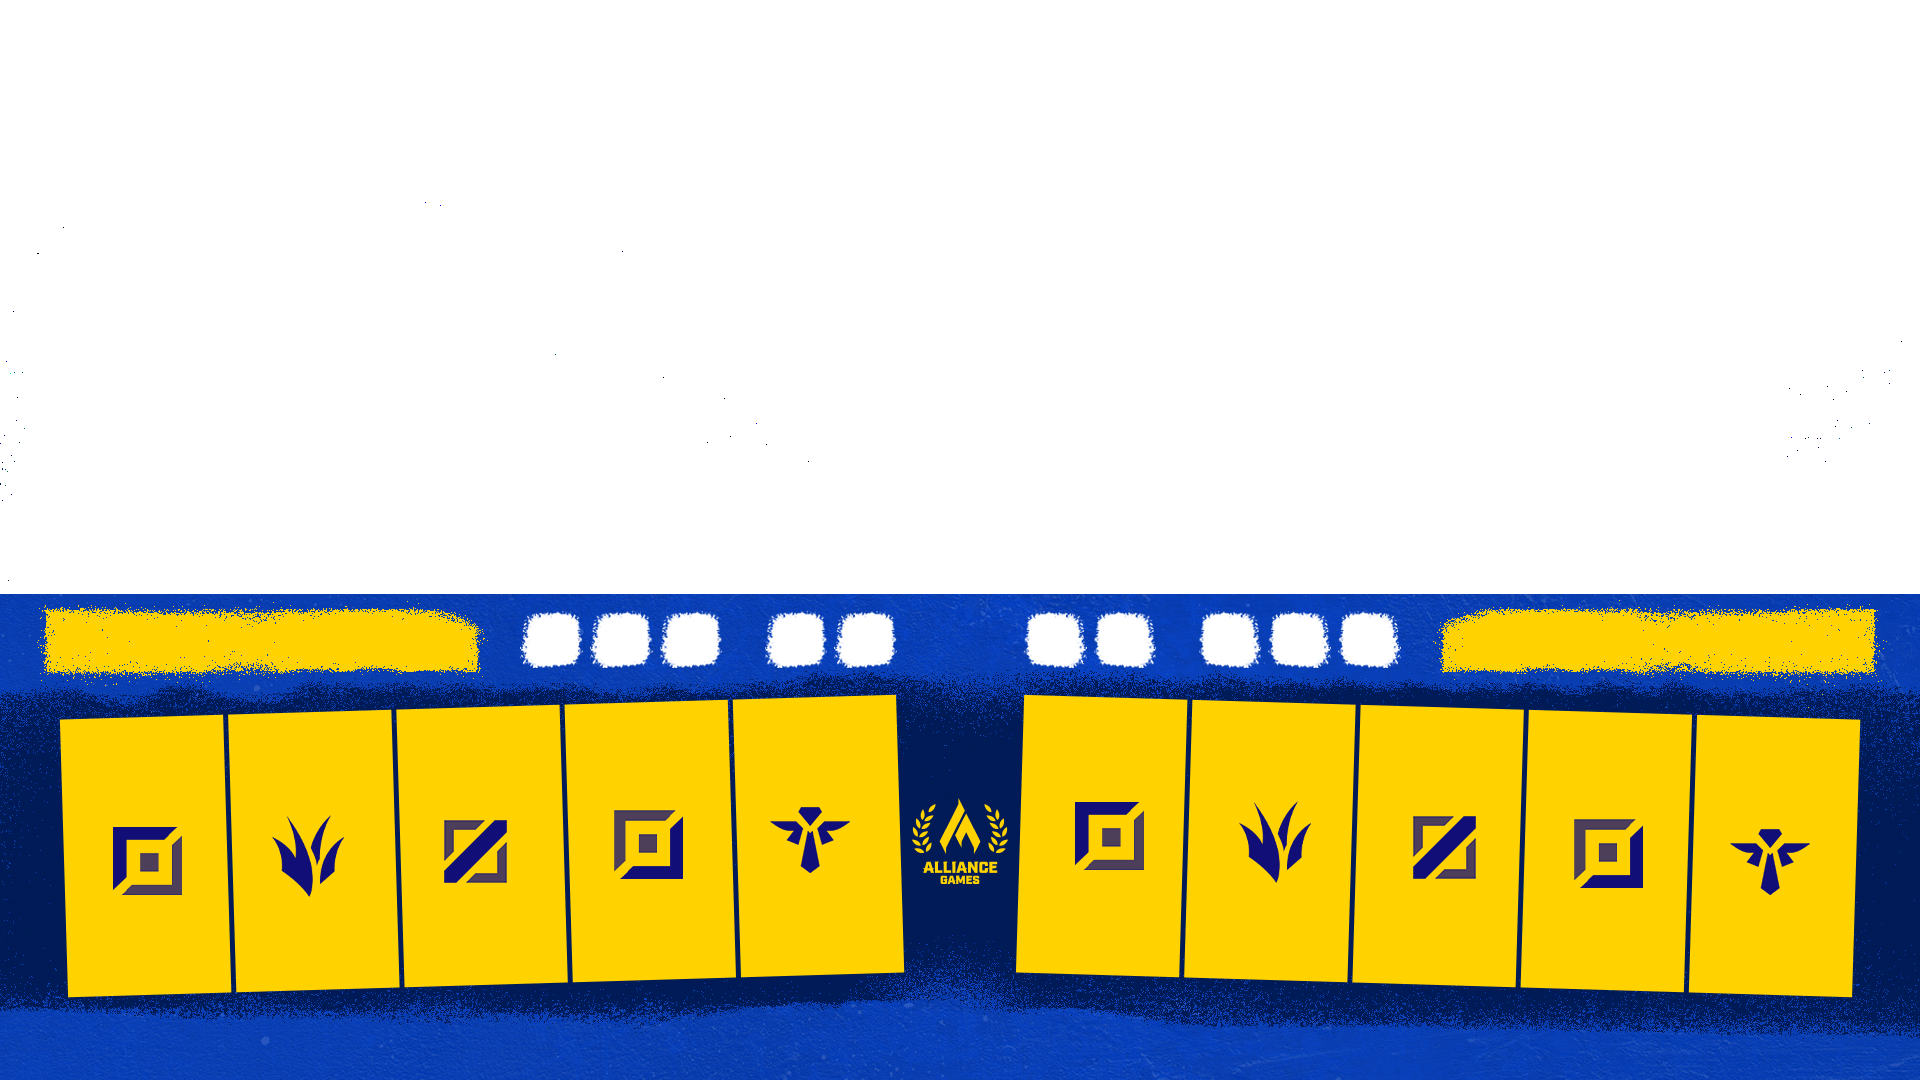
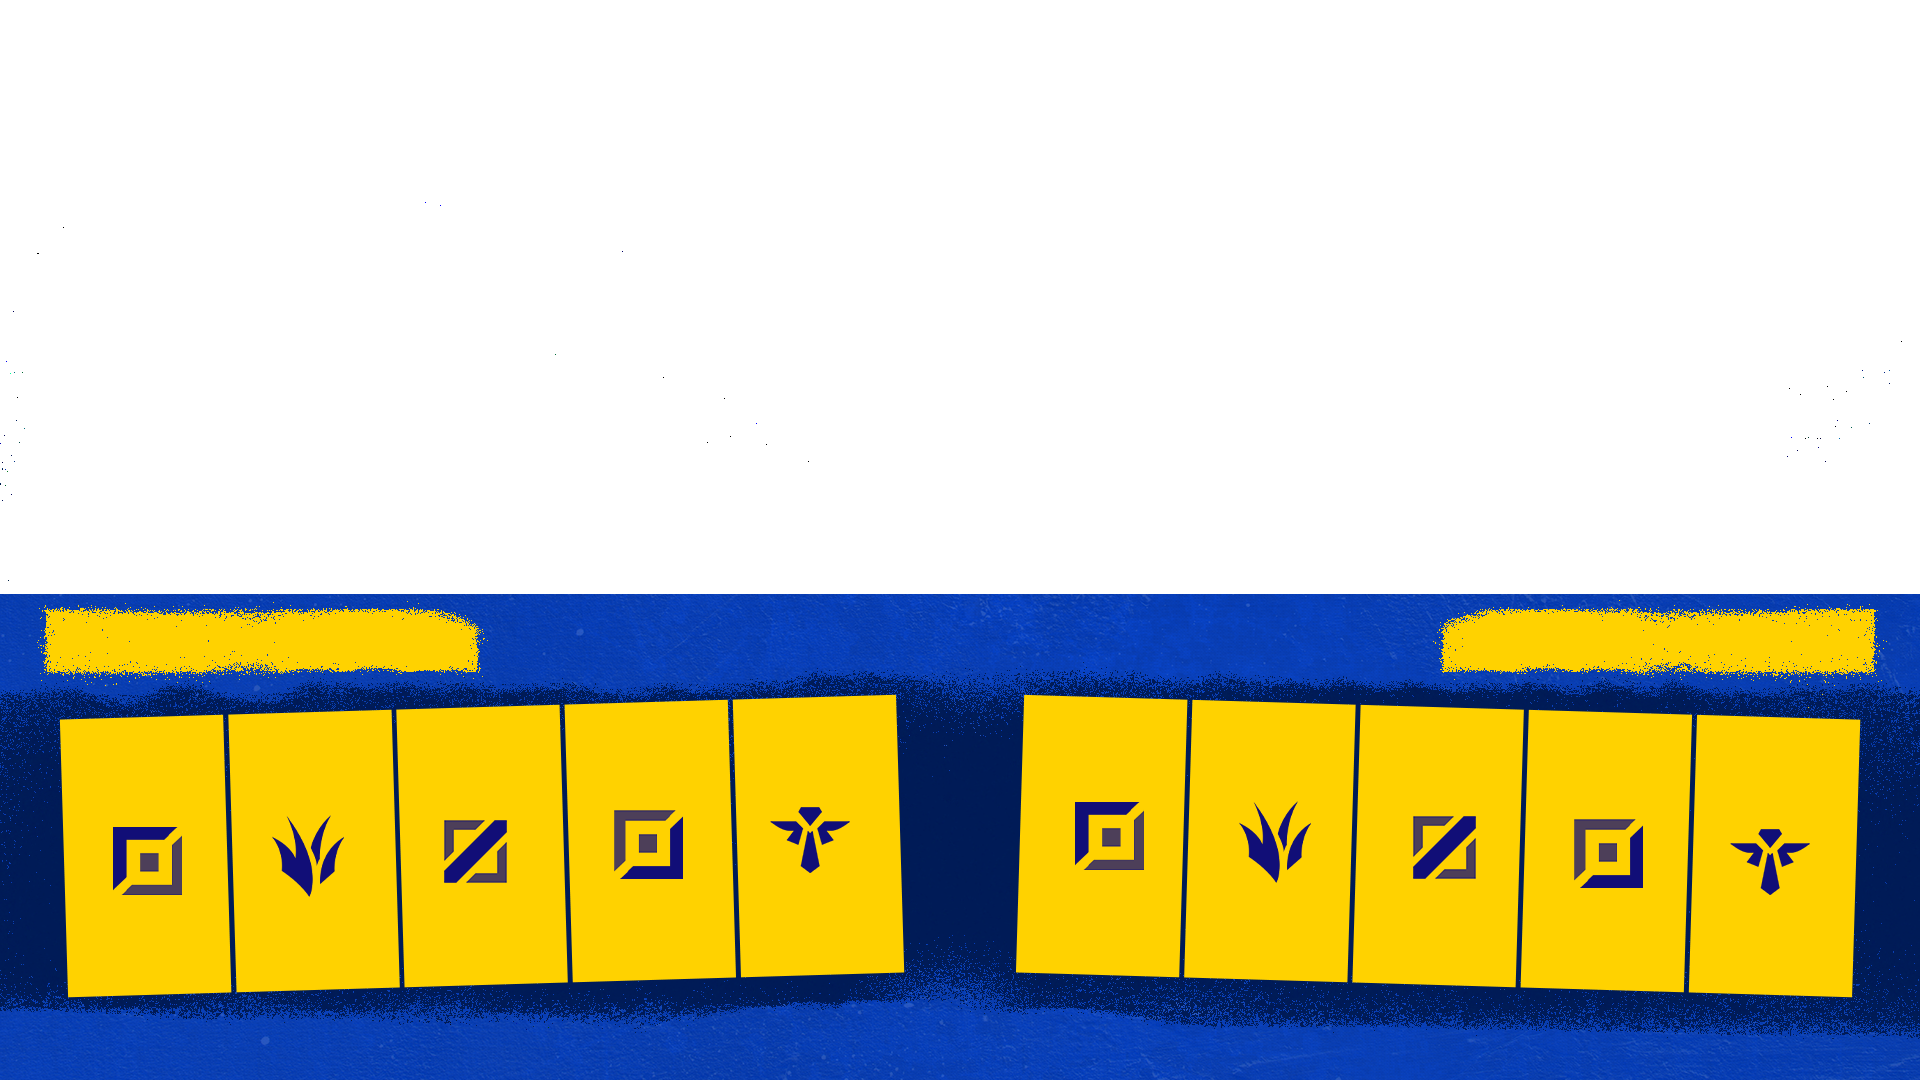
basic

Changed region(s): [[0.5312, 0.55, 0.75, 0.6417], [0.25, 0.55, 0.4688, 0.6417], [0.4688, 0.7333, 0.5312, 0.825]]

diff --git a/layouts/layout-volu-europe/src/europe/Overlay.jsx b/layouts/layout-volu-europe/src/europe/Overlay.jsx
@@ -55,11 +55,11 @@ export default class Overlay extends React.Component {
 
     console.log(state)
 
-    const renderBans = (teamState) => {
+    const renderBans = (teamState, space) => {
       const list = teamState.bans.map((ban, idx) => (
         <Ban key={`ban-${idx}`} {...ban} />
       ))
-      list.splice(3, 0, <div key="ban-spacer" className={css.Spacing} />)
+      list.splice(space, 0, <div key="ban-spacer" className={css.Spacing} />)
       return <div className={cx(css.BansBox)}>{list}</div>
     }
 
@@ -72,8 +72,8 @@ export default class Overlay extends React.Component {
         </div>
         <div className={css.BansWrapper}>
           <div className={cx(css.Bans)}>
-            {teamName === css.TeamRed && renderBans(teamState)}
-            {teamName === css.TeamBlue && renderBans(teamState)}
+            {teamName === css.TeamRed && renderBans(teamState, 2)}
+            {teamName === css.TeamBlue && renderBans(teamState, 3)}
           </div>
         </div>
       </div>
@@ -106,6 +106,7 @@ export default class Overlay extends React.Component {
             width: 1920,
             backgroundImage: `url("${bg}")`,
             backgroundSize: "100% 100%",
+            zIndex: 2,
           }}
         ></div>
         <div

diff --git a/layouts/layout-volu-europe/src/europe/style/bans.scss b/layouts/layout-volu-europe/src/europe/style/bans.scss
@@ -1,25 +1,16 @@
 .Bans {
   width: 100%;
-  height: var(--box-ban-height);
   display: flex;
   box-sizing: border-box;
+  position: relative;
   .Ban {
     display: block;
-    width: calc(var(--box-ban-height) - calc(2 * var(--border-width)));
-    height: calc(var(--box-ban-height) - calc(2 * var(--border-width)));
     overflow: hidden;
     position: relative;
+    margin-right: 10px;
 
     &:first-child {
       border: none;
-    }
-
-    img {
-      width: calc(100% + calc(2 * var(--ban-image-crop)));
-      height: 100%;
-      object-fit: cover;
-      object-position: calc(-1 * var(--ban-image-crop))
-        calc(-1 * var(--ban-image-crop) + 1px);
     }
 
     .BanImage.Active::before {
@@ -31,6 +22,7 @@
       height: 100%;
       opacity: 0.5;
       animation: pulsate-ban 1.5s infinite;
+      z-index: 1;
     }
   }
 
@@ -39,9 +31,9 @@
   }
 }
 
-&.TeamBlue .BansBox {
-  flex-direction: row-reverse;
-}
+// &.TeamBlue .BansBox {
+//   flex-direction: row-reverse;
+// }
 
 .BansWrapper {
   overflow: hidden;

diff --git a/layouts/layout-volu-europe/src/europe/style/team.scss b/layouts/layout-volu-europe/src/europe/style/team.scss
@@ -3,6 +3,7 @@
   height: var(--box-height);
   display: flex;
   bottom: var(--champselect-margin-bot);
+  z-index: 99;
 
   .TeamName {
     font-size: 40px;
@@ -42,9 +43,10 @@
     }
 
     .BansWrapper {
-      right: 0;
-      bottom: calc(100% + 20px);
+      right: -8px;
+      bottom: calc(100% + 26px);
       transform: rotate(1.7deg);
+      z-index: 0;
     }
     .Bans {
       // justify-content: flex-end;
@@ -84,12 +86,19 @@
   &.TeamRed {
     right: 61px;
     transform: rotate(1.7deg);
-
+    .BansWrapper {
+      left: -8px;
+      bottom: calc(100% + 26px);
+      transform: rotate(-1.7deg);
+      z-index: 0;
+    }
     .TeamScore {
       border-left: 3px solid black;
     }
 
     .Bans {
+      display: flex;
+      // flex-direction: row-reverse;
       .Ban {
         .BanImage.Active::before {
           background-image: linear-gradient(

diff --git a/layouts/layout-volu-europe/src/europe/Ban.jsx b/layouts/layout-volu-europe/src/europe/Ban.jsx
@@ -9,9 +9,14 @@ const Bans = (props) => (
       className={cx(css.BanImage, {
         [css.Active]: props.isActive,
       })}
-    >
-      <img src={props.champion.squareImg} alt="" />
-    </div>
+      style={{
+        backgroundImage: `url("${props.champion.squareImg}")`,
+        backgroundSize: "cover",
+        height: 62,
+        width: 62,
+        backgroundPosition: "bottom",
+      }}
+    ></div>
   </div>
 )
 

diff --git a/layouts/layout-volu-europe/src/europe/style/picks.scss b/layouts/layout-volu-europe/src/europe/style/picks.scss
@@ -4,6 +4,7 @@
   display: flex;
   box-sizing: border-box;
   overflow: hidden;
+  z-index: 999;
 
   .Pick {
     position: relative;
